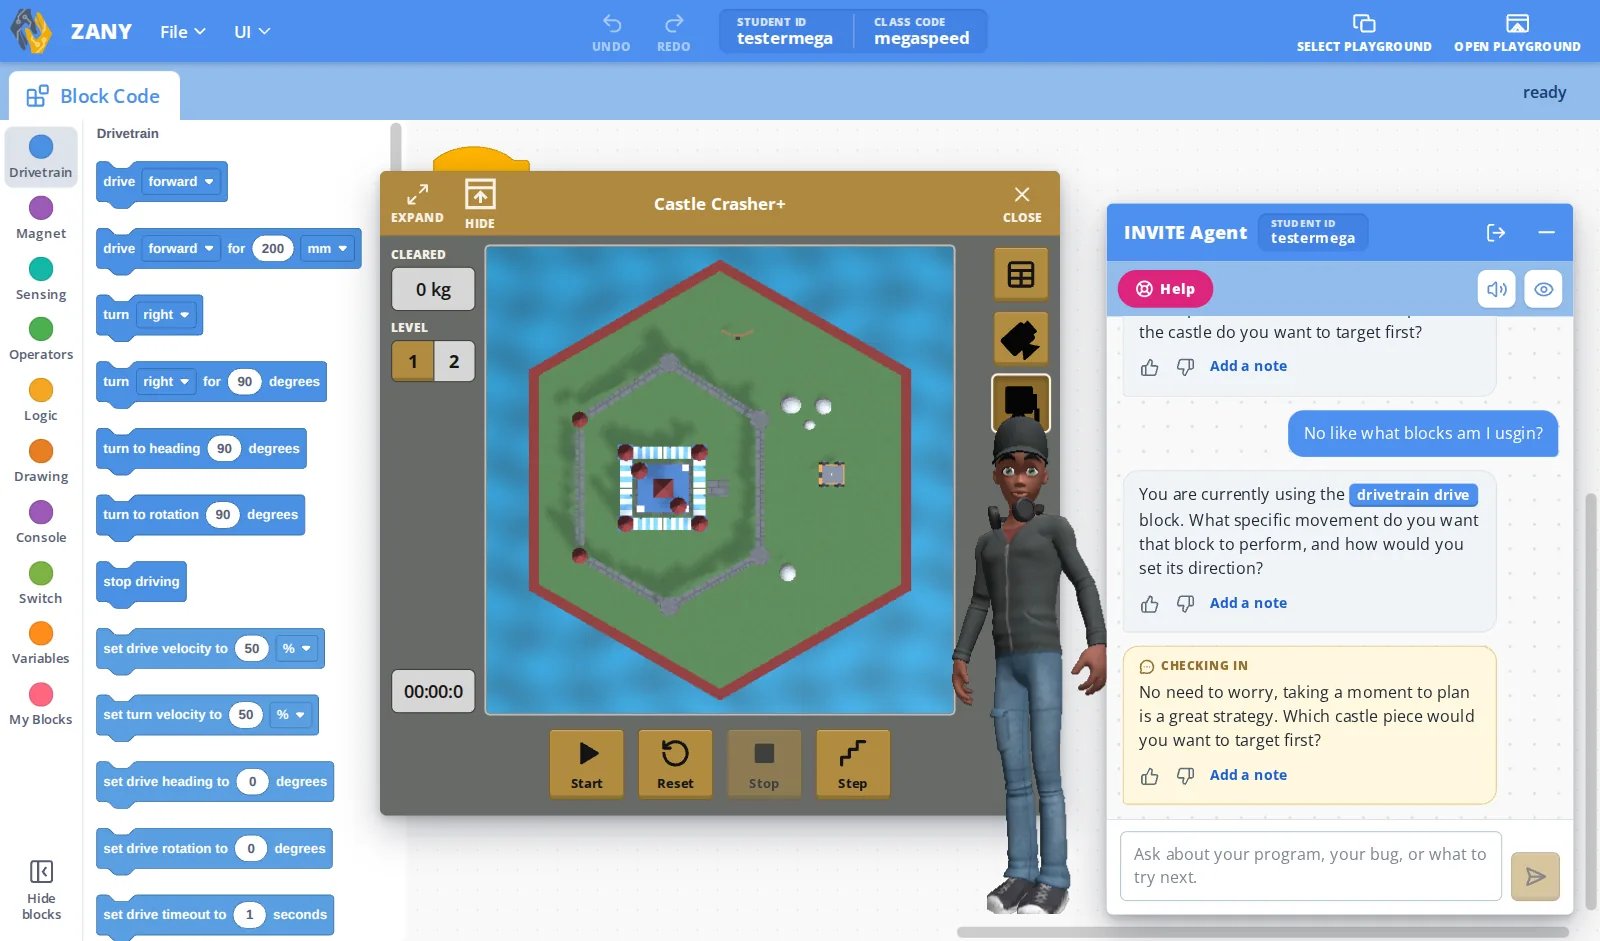
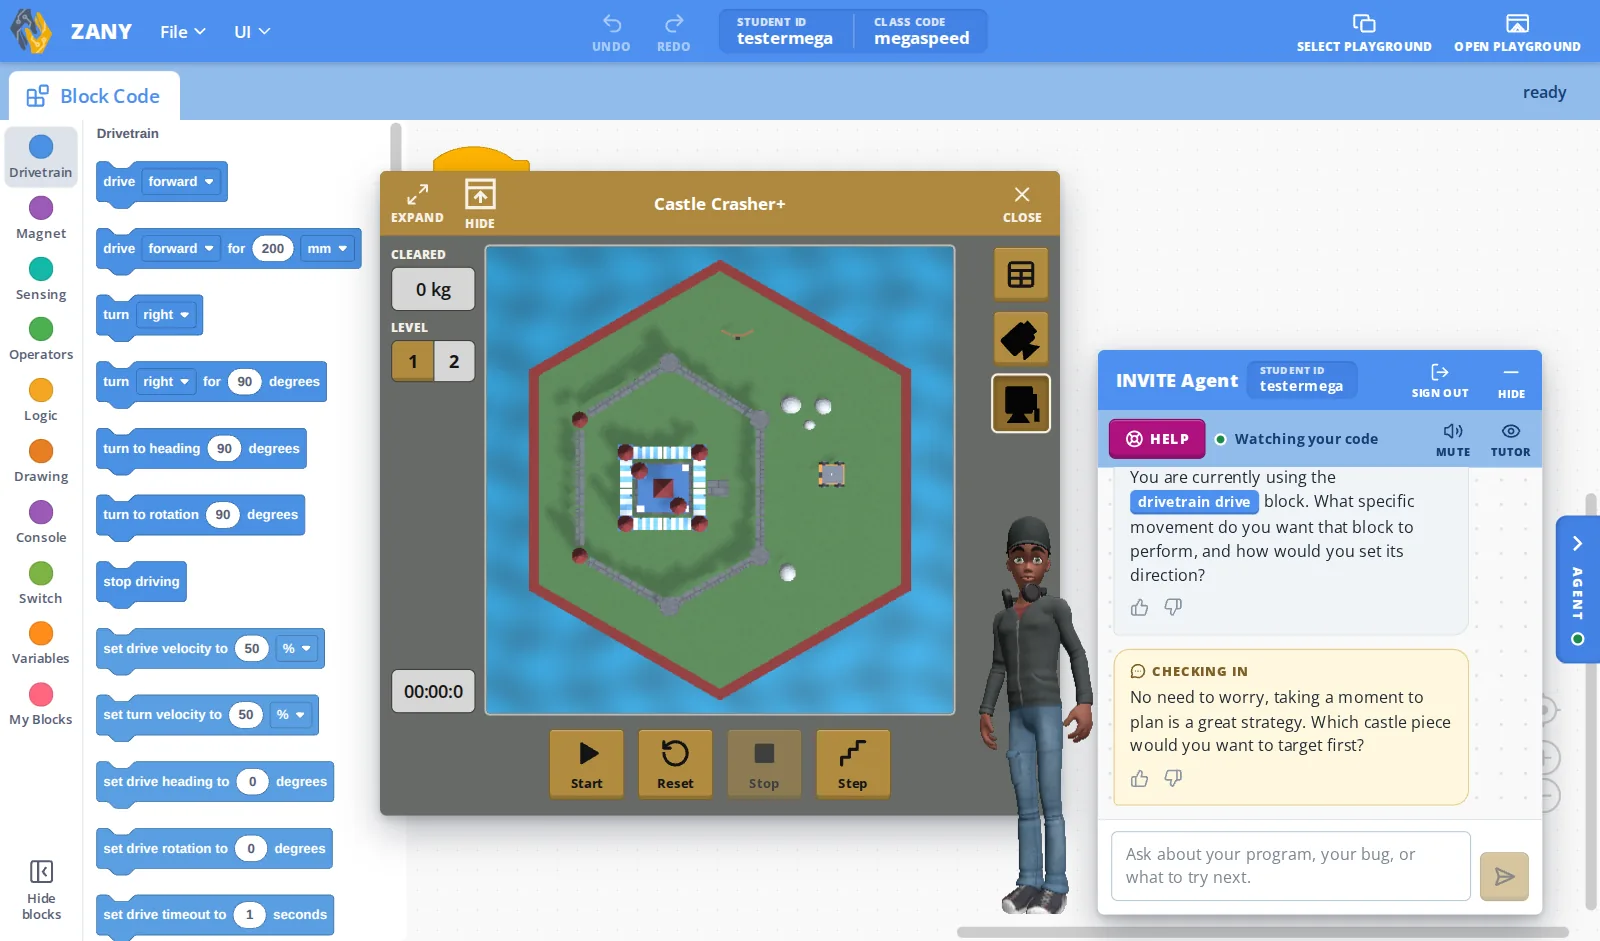
Show the INVITE Agent's new look in its screenshot
The photo shows the agent over ZANY on Castle Crasher+ with its edge tab,
the labelled buttons and the 3D tutor.

Closes #7

Changed region(s): [[0.5938, 0.2157, 1.0, 0.9862]]

diff --git a/public/index.html b/public/index.html
@@ -60,7 +60,7 @@
 
     <article class="tool" aria-labelledby="agent-title">
       <figure class="tool-photo">
-        <img src="/assets/img/photos/agent-1200.webp?v=10" srcset="/assets/img/photos/agent-800.webp?v=10 800w, /assets/img/photos/agent-1200.webp?v=10 1200w, /assets/img/photos/agent-1600.webp?v=10 1600w" sizes="(max-width: 767px) calc(100vw - 42px), 585px" width="1600" height="941" alt="ZANY with the Castle Crasher+ playground open, a 3D animated tutor, and the INVITE Agent panel checking in on the student's code" loading="lazy">
+        <img src="/assets/img/photos/agent-1200.webp?v=11" srcset="/assets/img/photos/agent-800.webp?v=11 800w, /assets/img/photos/agent-1200.webp?v=11 1200w, /assets/img/photos/agent-1600.webp?v=11 1600w" sizes="(max-width: 767px) calc(100vw - 42px), 585px" width="1600" height="941" alt="ZANY with the Castle Crasher+ playground open, a 3D animated tutor, and the INVITE Agent chat beside its tab on the screen's edge" loading="lazy">
       </figure>
       <div class="tool-body">
         <div class="tool-head">
